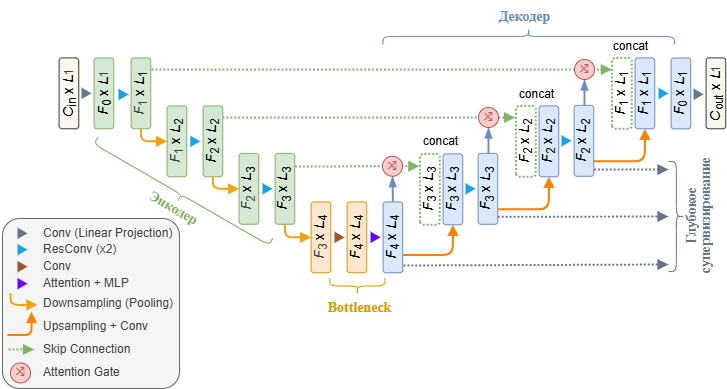
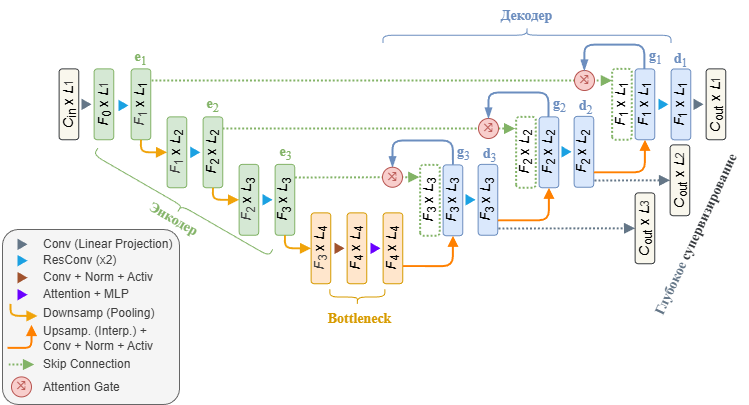
Update.

diff --git a/chapters/parametersEstimation/modelArchitecture.tex b/chapters/parametersEstimation/modelArchitecture.tex
@@ -33,11 +33,11 @@
 \begin{equation*}
     \begin{aligned}
         \mathbb{R}^{C_\text{in} \times L_1} &\mapsto \mathbb{R}^{F_0 \times L_1}, \\
-        \mathbb{R}^{F_0 \times L_1} &\mapsto \mathbb{R}^{C_\text{out} \times L_1}.
+        \mathbb{R}^{F_1 \times L_1} &\mapsto \mathbb{R}^{C_\text{out} \times L_1}.
     \end{aligned}
 \end{equation*}
 
-Аналогичную функцию проекции выполняет свертка на входе алгоритма \enquote{Attention} в \enquote{Bottleneck}, но уже с нормализацией и активацией:
+Аналогичную функцию проекции выполняет свертка на входе \enquote{Bottleneck}, но уже с нормализацией и активацией:
 \begin{equation*}
     \mathbb{R}^{F_3 \times L_4} \mapsto \mathbb{R}^{F_4 \times L_4}.
 \end{equation*}
@@ -61,7 +61,13 @@ ${\tau}$ -- пороговый уровень, ${\tau \in \left[0; 1 \right]}$.
 
 Каждый канал маски соответствует типу детектируемых объектов.
 
-Количество обучаемых параметров построенной модели составляет порядка \num{5.2}~M.
+Количество обучаемых параметров построенной модели составляет порядка \num{5.3}~M.
+
+Реализовано глубокое супервизирование (Deep Supervision) \cite{lee2015deeply} с целью более глубокого обучения слоев декодера:
+\begin{equation*}
+    \mathbf{d}'_n = \mathbf{W}_n^\text{DS} \ast \mathbf{d}_n,
+\end{equation*}
+где ${\mathbf{W}_n^\text{DS} \in \mathbb{R}^{C_\text{out} \times F_n \times 3}}$.
 
 \subsection{Энкодер}
 Энкодер преобразует входные данные в латентное (скрытое) пространство уменьшенной размерности. В созданной реализации энкодер состоит из каскада $N$ сверточных базовых блоков. Заложена \enquote{residual}-архитектура базового блока по типу \enquote{pre-activation} (рис.~\ref{fig:residual_conv_diagram}), обеспечивающая лучший градиентный поток для быстрой сходимости при обучении \cite{he2016identity}.
@@ -74,7 +80,7 @@ ${\tau}$ -- пороговый уровень, ${\tau \in \left[0; 1 \right]}$.
 	\label{fig:residual_conv_diagram}
 \end{figure}
 
-Каждый $n$-й базовы блок, ${n \in \{1, \dots, N\}}$, выполняет последовательно две свертки с ядрами ${\mathbf{W}_n^{1\text{enc}} \in \mathbb{R}^{F_{n-1} \times F_n}}$, ${\mathbf{W}_n^{2\text{enc}} \in \mathbb{R}^{F_n \times F_n}}$, соответственно:
+Каждый $n$-й базовы блок, ${n \in \{1, \dots, N\}}$, выполняет последовательно две свертки с ядрами ${\mathbf{W}_n^{1\text{enc}} \in \mathbb{R}^{F_{n-1} \times F_n} \times 3}$, ${\mathbf{W}_n^{2\text{enc}} \in \mathbb{R}^{F_n \times F_n} \times 3}$, соответственно:
 
 \begin{equation*}
     \begin{aligned}
@@ -93,7 +99,7 @@ ${\tau}$ -- пороговый уровень, ${\tau \in \left[0; 1 \right]}$.
             \mathbf{e}_{n-1}, & \text{иначе},
         \end{cases}
 \end{equation*}
-где ядро проекции ${\mathbf{W}_n^{\text{enc}} \in \mathbb{R}^{F_{n} \times F_{n-1}}}$.
+где ядро проекции ${\mathbf{W}_n^{\text{enc}} \in \mathbb{R}^{F_{n} \times F_{n-1}} \times 3}$.
 
 Между слоями энкодера длина тензора уменьшается в 2 раза алгоритмом \enquote{nn.MaxPool1d}:
 \begin{equation*}
@@ -178,29 +184,30 @@ ${\mathbf{MH}_\text{perm} \in \mathbb{R}^{L_4 \times F_4}}$ получается
 
 \begin{equation*}
     \begin{aligned}
-        \mathbf{z}_{n-1}^{1\text{dec}} &= \mathbf{W}_{n-1}^{1\text{dec}} \ast \sigma\left(\mathcal{N}^{1\text{dec}}\left(\tilde{\mathbf{d}}_{n}\right)\right), \\
-        \mathbf{z}_{n-1}^{2\text{dec}} &= \mathbf{W}_{n-1}^{2\text{dec}} \ast \sigma\left(\mathcal{N}^{2\text{dec}}\left(\mathbf{z}_{n-1}^{1\text{dec}}\right)\right), \\
-        \mathbf{d}_{n-1} &= \mathbf{z}_{n-1}^{2\text{dec}} \oplus \mathbf{s}_{n-1}^\text{dec},
+        \mathbf{z}_n^{1\text{dec}} &= \mathbf{W}_n^{1\text{dec}} \ast \sigma\left(\mathcal{N}^{1\text{dec}}\left(\tilde{\mathbf{d}}_{n}\right)\right), \\
+        \mathbf{z}_n^{2\text{dec}} &= \mathbf{W}_n^{2\text{dec}} \ast \sigma\left(\mathcal{N}^{2\text{dec}}\left(\mathbf{z}_n^{1\text{dec}}\right)\right), \\
+        \mathbf{d}_{n-1} &= \mathbf{z}_n^{2\text{dec}} \oplus \mathbf{s}_n^\text{dec},
     \end{aligned}
 \end{equation*}
-где две свертки с ядрами ${\mathbf{W}_n^{1\text{dec}} \in \mathbb{R}^{F_{n-1} \times 2F_{n-1}}}$, ${\mathbf{W}_n^{2\text{dec}} \in \mathbb{R}^{F_{n-1} \times F_{n-1}}}$.
+где две свертки с ядрами ${\mathbf{W}_n^{1\text{dec}} \in \mathbb{R}^{F_n \times 2F_n}}$, ${\mathbf{W}_n^{2\text{dec}} \in \mathbb{R}^{F_n \times F_n}}$.
 
-В отличие от энкодера, входной тензор каждого слоя декодера ${\tilde{\mathbf{d}}_n}$ формируется слиянием каналов преобразованных тензоров энкодера ${\tilde{\mathbf{e}}_{n} \in \mathbb{R}^{F_{n-1} \times L_n}}$ и декодера ${\mathbf{g}_{n} \in \mathbb{R}^{F_{n-1} \times L_n}}$ соответствующих уровней:
+В отличие от энкодера, входной тензор каждого слоя декодера ${\tilde{\mathbf{d}}_n}$ формируется слиянием каналов преобразованных тензоров энкодера ${\tilde{\mathbf{e}}_n \in \mathbb{R}^{F_n \times L_n}}$ и декодера ${\mathbf{g}_n \in \mathbb{R}^{F_n \times L_n}}$ соответствующих уровней:
 \begin{equation*}
     \tilde{\mathbf{d}}_n = \text{cat}\left(\tilde{\mathbf{e}}_n, \mathbf{g}_n \right),
 \end{equation*}
-${\tilde{\mathbf{d}}_n \in \mathbb{R}^{2F_{n-1} \times L_n}}$.
+${\tilde{\mathbf{d}}_n \in \mathbb{R}^{2F_n \times L_n}}$.
 
 Преобразование тензора декодера аналогично преобразованию на входе \enquote{bottleneck}, только с предварительным увеличением длины тензора в 2 раза алгоритмом \enquote{nn.Upsample}:
 \begin{equation*}
-    \mathbf{g}_n = \sigma\left(\mathcal{N}^{\text{dec}}\left(\mathbf{W}^{\text{dec}} \ast \mathbf{d}_{n}{\uparrow_2}\right)\right),
+    \mathbf{g}_n = \sigma\left(\mathcal{N}^{\text{dec}}\left(\mathbf{W}^{\text{dec}} \ast \mathbf{d}_{n+1}{\uparrow_2}\right)\right),
 \end{equation*}
-где ${\mathbf{W}^{\text{dec}}} \in \mathbb{R}^{F_{n-1} \times F_n}$.
+где ${\mathbf{W}^{\text{dec}}} \in \mathbb{R}^{F_n \times F_{n+1}}$.
 
-Тензор с входа уровня $n$ энкодера ${\tilde{\mathbf{e}}_n}$ формируется \enquote{взвешиванием} выхода ${\mathbf{e}_n}$ на тензор ${\mathbf{g}_n}$ алгоритмом \enquote{Attention}, по аналогии с \cite{oktay2018attention}:
+Тензор с входа уровня $n$ энкодера ${\tilde{\mathbf{e}}_n}$ формируется \enquote{взвешиванием} выхода слоя энкодера ${\mathbf{e}_n}$ на соответствующий тензор ${\boldsymbol{\psi}_n \left(\mathbf{e}_n, \mathbf{g}_n \right)}$:
 \begin{equation*}
     \tilde{\mathbf{e}}_n = \mathbf{e}_n \odot \boldsymbol{\psi}_n \left(\mathbf{e}_n, \mathbf{g}_n \right),
 \end{equation*}
+где ${\boldsymbol{\psi}_n \left(\mathbf{e}_n, \mathbf{g}_n \right) \in \mathbb{R}^{1 \times L_n}}$ представляет собой одноканальную карту признаков (карту \enquote{позиционного внимания}), формирующуюся алгоритмом \cite{oktay2018attention}:
 \begin{equation*}
     \boldsymbol{\psi}_n \left(\mathbf{e}_n, \mathbf{g}_n \right) = \sigma_\text{Sigmoid} \left(\mathcal{N}^\psi \left( \mathbf{W}^\psi \ast \sigma_\text{ReLU} \left(\mathbf{E}_n \oplus \mathbf{G}_n \right) \right) \right),
 \end{equation*}
@@ -208,6 +215,8 @@ ${\tilde{\mathbf{d}}_n \in \mathbb{R}^{2F_{n-1} \times L_n}}$.
     \mathbf{E}_n = \mathcal{N}^E\left(\mathbf{W}^E \ast \mathbf{e}_n\right), \quad 
     \mathbf{G}_n = \mathcal{N}^G\left(\mathbf{W}^G \ast \mathbf{g}_n\right),
 \end{equation*}
+\begin{equation*}
+    \mathbf{W}^E, \mathbf{W}^G \in \mathbb{R}^{F_n/2 \times F_n}, \quad 
+    \mathbf{W}^\psi \in \mathbb{R}^{1 \times F_n/2},
+\end{equation*}
 где \enquote{${\odot}$} -- операция поэлементного умножения.
-
-В декодере реализовано глубокое супервизирование (Deep Supervision) \cite{lee2015deeply} с целью более глубокого обучения модели.